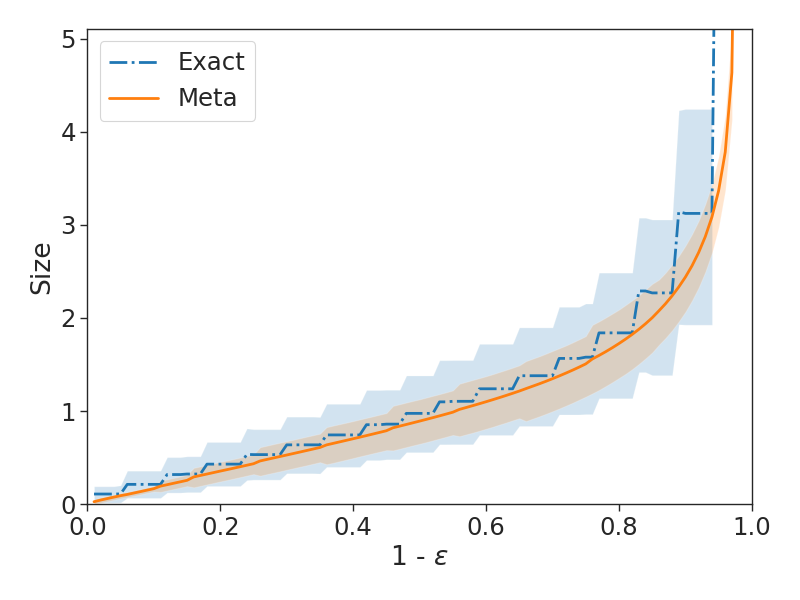
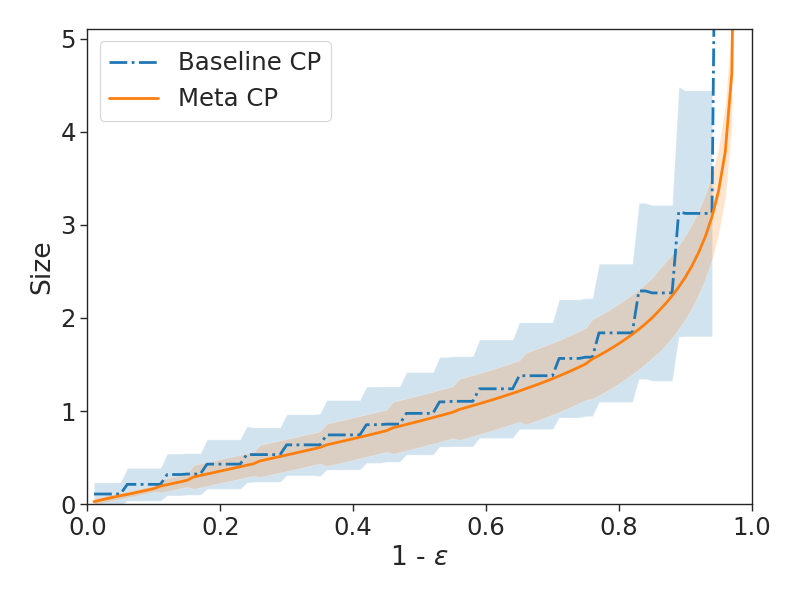
sync with latest

diff --git a/plots.py b/plots.py
@@ -87,13 +87,13 @@ def plot_task(qs, results_path, task_name, output_dir, max_size=10, dpi=100):
     low = [exact[i][0][0] - exact[i][0][1] for i in all_x]
     high = [exact[i][0][0] + exact[i][0][1] for i in all_x]
     plt.fill_between(x, low, high, alpha=0.2)
-    plt.plot(x, y, '-.', label="Exact", linewidth=2)
+    plt.plot(x, y, '-.', label="Baseline CP", linewidth=2)
 
     y = [all_y[i][0] for i in all_x]
     low = [all_y[i][0] - all_y[i][1] for i in all_x]
     high = [all_y[i][0] + all_y[i][1] for i in all_x]
     plt.fill_between(all_x, low, high, alpha=0.2)
-    plt.plot(all_x, y, '-', label="Meta", linewidth=2)
+    plt.plot(all_x, y, '-', label="Meta CP", linewidth=2)
 
     plt.xlabel("1 - $\epsilon$")
     plt.ylabel("Accuracy")
@@ -131,13 +131,13 @@ def plot_task(qs, results_path, task_name, output_dir, max_size=10, dpi=100):
     low = [exact[i][1][0] - exact[i][1][1] for i in all_x]
     high = [exact[i][1][0] + exact[i][1][1] for i in all_x]
     plt.fill_between(x, low, high, alpha=0.2)
-    plt.plot(x, y, '-.', label="Exact", linewidth=2)
+    plt.plot(x, y, '-.', label="Baseline CP", linewidth=2)
 
     y = [min(all_y[i][0], 2*max_size) for i in all_x]
     low = [all_y[i][0] - all_y[i][1] for i in all_x]
     high = [all_y[i][0] + all_y[i][1] for i in all_x]
     plt.fill_between(all_x, low, high, alpha=0.2)
-    plt.plot(all_x, y, '-', label="Meta", linewidth=2)
+    plt.plot(all_x, y, '-', label="Meta CP", linewidth=2)
 
     plt.xlabel("1 - $\epsilon$")
     plt.ylabel("Size")

diff --git a/mini_imagenet/create_conformal_dataset.py b/mini_imagenet/create_conformal_dataset.py
@@ -242,8 +242,7 @@ def main(args):
     assert(args.n_calibration > args.n_query)
 
     # Load data
-    split = "val"
-    test_dataset = MiniImageNet(split, args.full_path, args.images_path)
+    test_dataset = MiniImageNet(args.split, args.full_path, args.images_path)
 
     # n_calibration instead of n_query so we'll have enough queries from
     # the calibration tasks.
@@ -287,5 +286,6 @@ if __name__ == "__main__":
     parser.add_argument("--n_calibration", type=int, default=200)
     parser.add_argument("--num_data_workers", type=int, default=30)
     parser.add_argument("--output_file", type=str, default="tmp/tmp_val.jsonl")
+    parser.add_argument("--split", type=str, default="val")
     args = parser.parse_args()
     main(args)

diff --git a/mini_imagenet/create_quantile_dataset.py b/mini_imagenet/create_quantile_dataset.py
@@ -66,6 +66,7 @@ def run_fold(dataset_dir, images_dir, ckpt, split, args):
 
     model.eval()
 
+    #torch.backends.cudnn.enabled = False
     cudnn.benchmark = True
 
     test_dataset = MiniImageNet(split, dataset_dir, images_dir)
@@ -85,7 +86,7 @@ def run_fold(dataset_dir, images_dir, ckpt, split, args):
             data, tasks = [_.cuda(non_blocking=True) for _ in batch]
             tasks = tasks.tolist()
             p = args.n_support * args.n_way
-            data_support, data_query = data[:p], data[p:]
+            data_support, data_query = data[:p].contiguous(), data[p:].contiguous()
 
             # [n_support, n_way, model.out_channels]
             support_encodings = model(data_support).view(args.n_support, args.n_way, -1)
